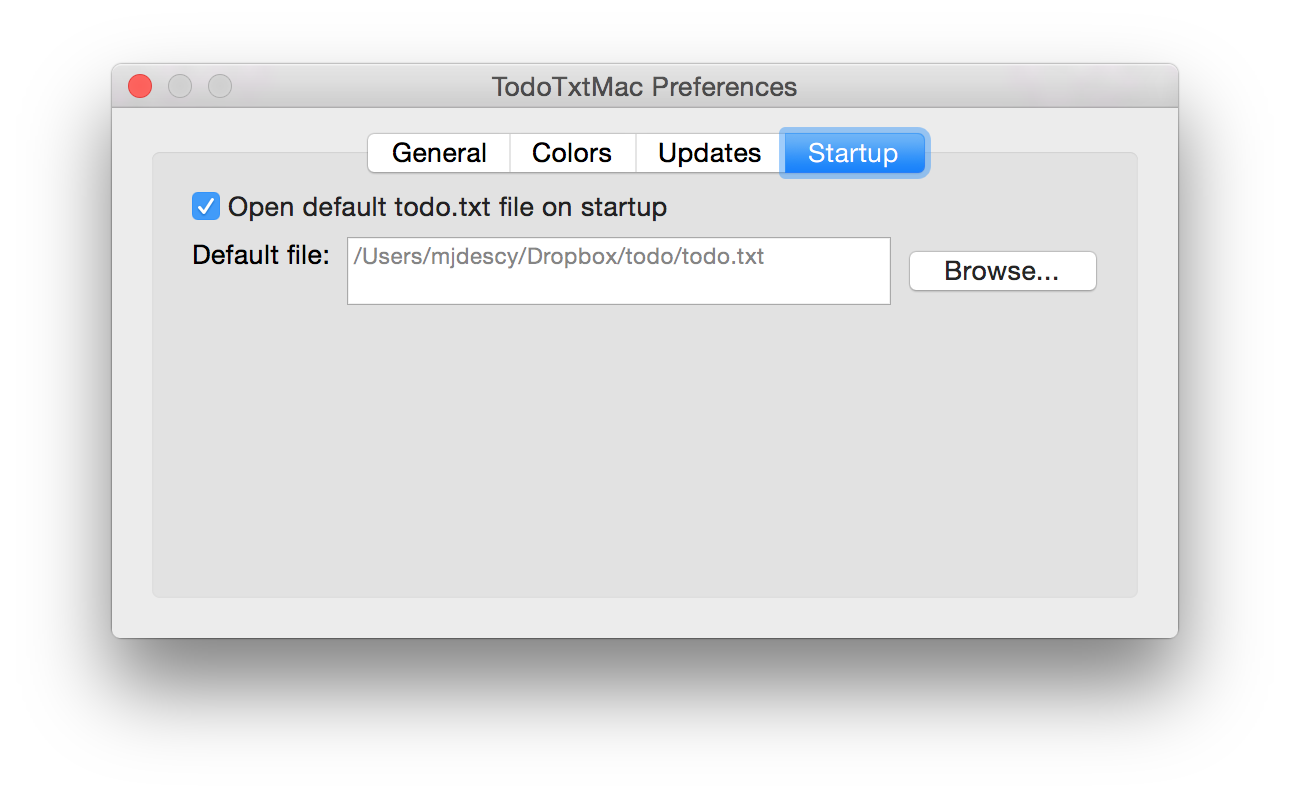
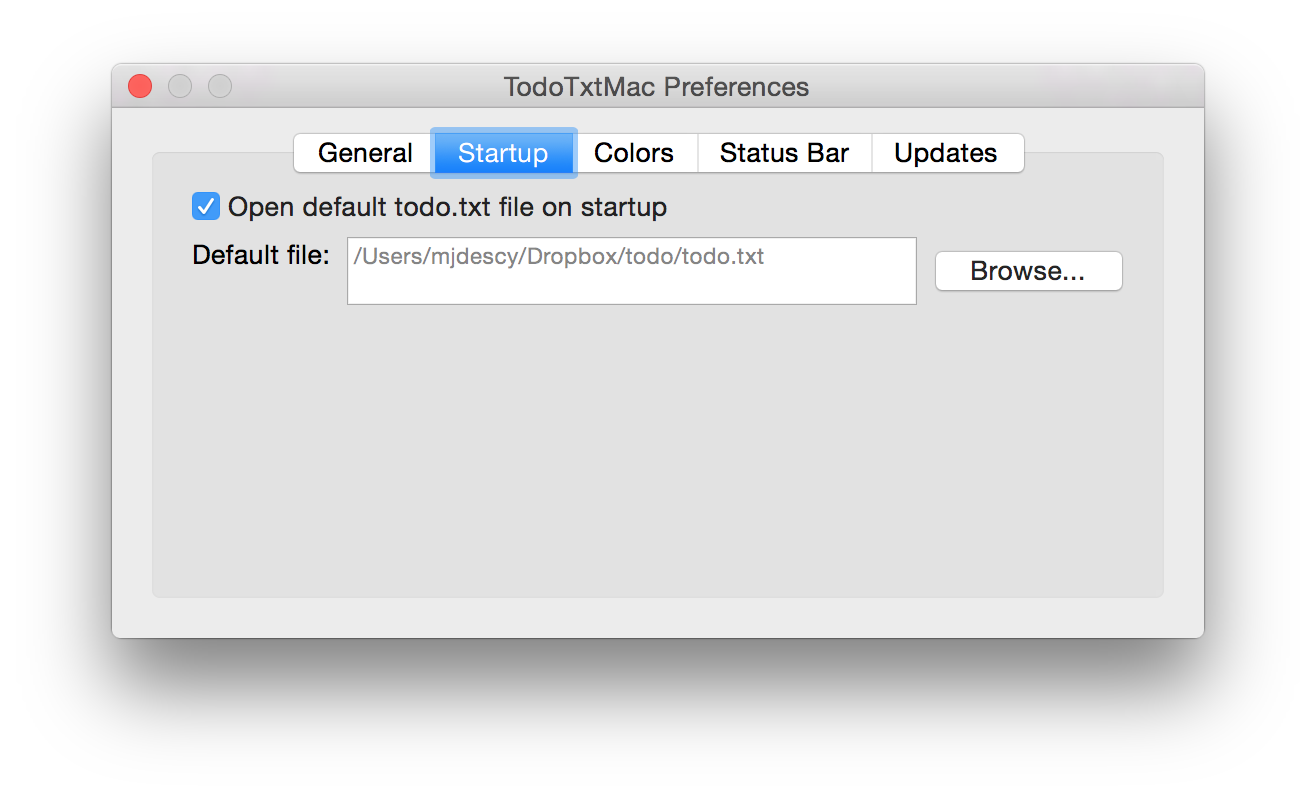
Updated web site for version 1.4.0 release.

diff --git a/index.html b/index.html
@@ -95,32 +95,34 @@ TodoTxtMac is a minimalist, keyboard-driven to-do manager for Mac OS X that conf
 <li>Filter task list.</li>
 <li>Quick filters: preset filters mapped to number keys.</li>
 <li>Search field for quick, ad-hoc filtering of the task list.</li>
-</ul><h2>
-<a name="due-dates" class="anchor" href="#due-dates"><span class="octicon octicon-link"></span></a>Due dates</h2>
+</ul>
 
+<h2><a name="due-dates" class="anchor" href="#due-dates"><span class="octicon octicon-link"></span></a>Due dates</h2>
 <ul>
 <li>Set arbitrary due dates on selected tasks.</li>
 <li>Increment, decrement, or remove due dates.</li>
 <li>Postpone tasks by X (user-entered) days.</li>
 <li>Supports relative due dates, such as "due:tomorrow" and "due:Saturday" for new tasks. These strings can be localized.</li>
-</ul><h2>
-<a name="fonts-and-colors" class="anchor" href="#fonts-and-colors"><span class="octicon octicon-link"></span></a>Fonts and colors</h2>
+</ul>
 
+<h2><a name="fonts-and-colors" class="anchor" href="#fonts-and-colors"><span class="octicon octicon-link"></span></a>Fonts and colors</h2>
 <ul>
 <li>User-customizable font for the task list.</li>
 <li>Bold priorities in task list.</li>
 <li>Colors completed tasks in light gray and applies strikethrough.</li>
 <li>Colors overdue tasks in purple and tasks due today in red. Both these colors are user customizable.</li>
 <li>Colors projects and contexts in dark gray in task list. Both these colors are user customizable.</li>
-</ul><h2>
-<a name="mac-specific-user-interface-features" class="anchor" href="#mac-specific-user-interface-features"><span class="octicon octicon-link"></span></a>Mac-specific user interface features</h2>
+<li>Colors threshold dates in the task list, with a user-customizable color.</li>
+</ul>
 
+<h2><a name="mac-specific-user-interface-features" class="anchor" href="#mac-specific-user-interface-features"><span class="octicon octicon-link"></span></a>Mac-specific user interface features</h2>
 <ul>
 <li>Autosave on change (Note that the title bar will say "Edited" even after autosaving, because this is the Mac's default behavior).</li>
 <li>Autocomplete project names.</li>
 <li>Autocomplete context names.</li>
 <li>Multiple document interface.</li>
 <li>Full screen mode.</li>
+<li>Customizable (and optional) bottom status bar.</li>
 <li>Open todo.txt files by dragging and dropping them onto the application icon.</li>
 </ul><h1>
 <a name="keyboard-shortcuts" class="anchor" href="#keyboard-shortcuts"><span class="octicon octicon-link"></span></a>Keyboard Shortcuts</h1>
@@ -139,7 +141,7 @@ TodoTxtMac is a minimalist, keyboard-driven to-do manager for Mac OS X that conf
 <li>S: set due date</li>
 <li>I: set priority to user-entered value (A-Z)</li>
 <li>T: append text to end of selected tasks</li>
-<li>Option+T: prepend text to beginning of selected tasks (after priority and creation date)</li>
+<li>R: prepend text to beginning of selected tasks (after priority and creation date)</li>
 <li>A: archive completed tasks (archive file done.txt must be set)</li>
 <li>Command+Up: Increase priority</li>
 <li>Command+Down: Decrease priority</li>
@@ -242,7 +244,7 @@ $ open /Applications/TodoTxtMac.app --args -todo-file ~/Documents/todo.txt
 <h2>
 <a name="will-this-project-be-ported-from-objective-c-to-swift" class="anchor" href="#will-this-project-be-ported-from-objective-c-to-swift"><span class="octicon octicon-link"></span></a>Will this project be ported from Objective C to Swift?</h2>
 
-<p>At this time, there are no plans to move from Objective C to Swift.</p>
+<p>At this time, there are no concrete plans to move from Objective C to Swift. If Apple deprecates Objective C, this will change.</p>
 
 <h1>
 <a name="license" class="anchor" href="#license"><span class="octicon octicon-link"></span></a>License</h1>
@@ -268,17 +270,21 @@ $ open /Applications/TodoTxtMac.app --args -todo-file ~/Documents/todo.txt
 
 <div><img src="./images/todotxtmac-screenshot-preferences-general.png" alt="TodoTxtMac General Preferences Screenshot"></div>
 
+<h2>Startup Preferences</h2>
+
+<div><img src="./images/todotxtmac-screenshot-preferences-startup.png" alt="TodoTxtMac Startup Preferences Screenshot"></div>
+
 <h2>Color Preferences</h2>
 
 <div><img src="./images/todotxtmac-screenshot-preferences-colors.png" alt="TodoTxtMac Color Preferences Screenshot"></div>
 
+<h2>Status Bar Preferences</h2>
+
+<div><img src="./images/todotxtmac-screenshot-preferences-status-bar.png" alt="TodoTxtMac Status Bar Preferences Screenshot"></div>
+
 <h2>Updates Preferences</h2>
 
 <div><img src="./images/todotxtmac-screenshot-preferences-updates.png" alt="TodoTxtMac Updates Preferences Screenshot"></div>
-
-<h2>Startup Preferences</h2>
-
-<div><img src="./images/todotxtmac-screenshot-preferences-startup.png" alt="TodoTxtMac Startup Preferences Screenshot"></div>
 
 <h2>Task List Filters</h2>
 

diff --git a/release-notes/release-notes-v1.4.0.html b/release-notes/release-notes-v1.4.0.html
@@ -1,0 +1,28 @@
+<!DOCTYPE html>
+<html class="no-js">
+    <head>
+        <meta charset="utf-8">
+        <title>TodoTxtMac | Release Notes - v1.4.0</title>
+        <meta name="description" content="TodoTxtMac release notes">
+        <meta name="viewport" content="width=device-width, initial-scale=1">
+    </head>
+    <body>
+        <h1>Version 1.4.0</h1>
+        <h2>Enhancements</h2>
+        <ul>
+            <li>Added status bar, which can display various task list metadata, the filter preset applied, the sort applied, number of selected tasks, etc.
+                <ul>
+                    <li>Show/hide the status bar via `Command+/` or via the View menu.</li>
+                    <li>Customize the status bar text in the Preferences window.</li>
+                </ul>
+            </li>
+            <li>Added Replace... command (`Command+Option+F`) in Edit menu to find/replace text in selected tasks.</li>
+        </ul>
+        <h2>Bug Fixes</h2>
+        <ul>
+            <li>Fixed autocompletion of contexts.</li>
+            <li>Changed shortcut key for prepend text command from `Option+T` to `R` to fix an issue when there are tasks that start with 'T'.</li>
+            <li>Fixed minor autolayout errors in the Preferences window.</li>
+        </ul>
+    </body>
+</html>
